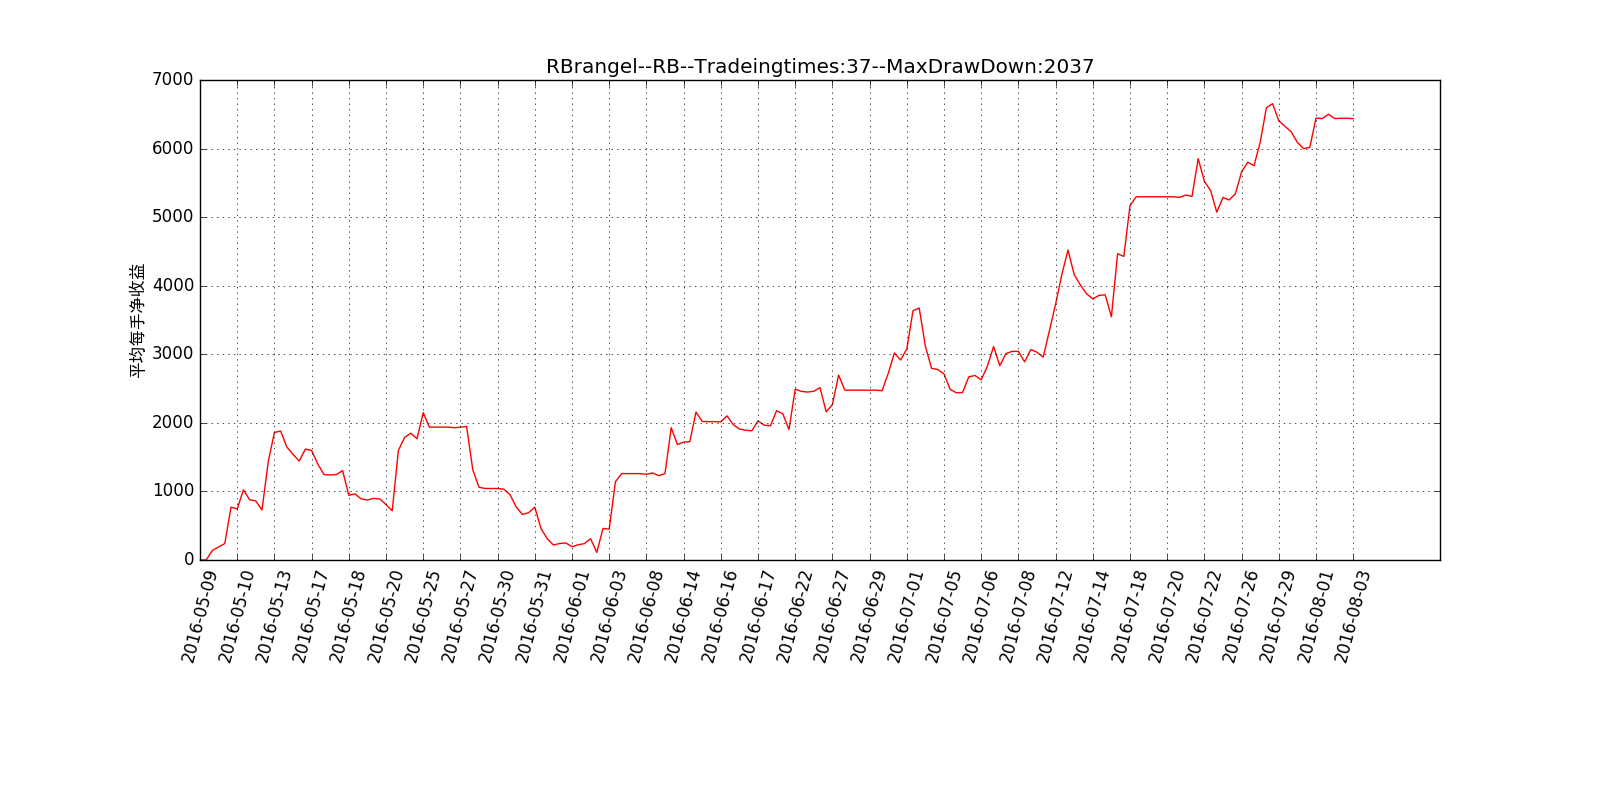
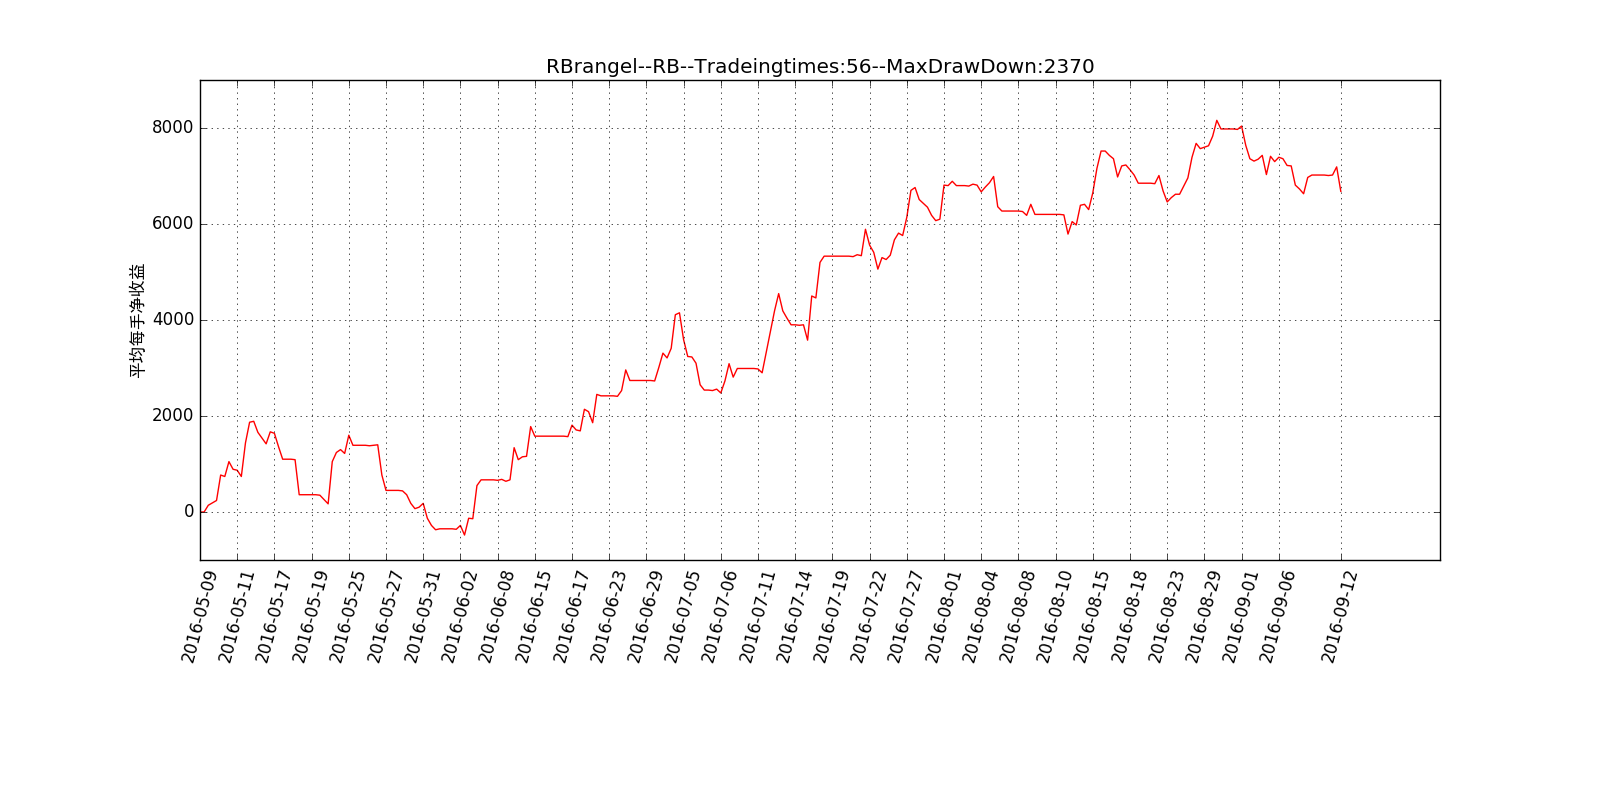
1

diff --git a/pythonfile/new_cal_quayi_归一化测试.py b/pythonfile/new_cal_quayi_归一化测试.py
@@ -10,7 +10,7 @@ import matplotlib.pyplot as plt
 import matplotlib.pylab as pl
 from matplotlib.dates import DayLocator, HourLocator, DateFormatter, drange
 ms = MSSQL(host="192.168.0.5",user="future",pwd="K@ra0Key",db="future")
-# resList = ms.find_sql("select top 2 * from st_report_test")
+# resList = ms.find_sql("select top 2 * from st_report")
 # print resList
 # 返回行情list 或者0
 
@@ -38,8 +38,8 @@ def input_groupbyquanyi(ac,symbol):
 	res=ms.dict_sql(sql)
 	totalsum=res[0]['totalsum']
 
-	#产生临时整个虚拟组st_report_test
-	sql="select * into  #temp_quanyi_new from ( select p.ac,p.symbol,st_report_test.type,st_report_test.id,st_report_test.p,st_report_test.pp,p.p_size,p.ratio ,st_report_test.st,st_report_test.stockdate from st_report_test  inner join #temp_p_log p on p.st=st_report_test.st and p.ac='%s' and p.symbol='%s')temp " % (ac,symbol)
+	#产生临时整个虚拟组st_report
+	sql="select * into  #temp_quanyi_new from ( select p.ac,p.symbol,st_report.type,st_report.id,st_report.p,st_report.pp,p.p_size,p.ratio ,st_report.st,st_report.stockdate from st_report  inner join #temp_p_log p on p.st=st_report.st and p.ac='%s' and p.symbol='%s')temp " % (ac,symbol)
 	#print sql
 	ms.insert_sql(sql)
 	#print 1,datetime.datetime.now()
@@ -426,14 +426,33 @@ def show_all_ac(acname=''):
 
 
 
+def regular_to_num(myquotes,upline,downline):
+	newmyquotes=[]
+	tempposition=0
+	for item in myquotes:
+		if item[2]>=upline:
+			tempposition=1
+		if item[2]<=downline:
+			tempposition=-1
+		newmyquotes.append([item[0],item[1],tempposition])
+	return newmyquotes
+
+def multiple_ratio(myquotes,ratio):
+	newmyquotes=[]
+	tempposition=0
+	for item in myquotes:
+		newmyquotes.append([item[0],item[1],item[2]*ratio])
+	return newmyquotes
+
 # show_all_ac('RU3v4e')
 
 
-(myquotes,totalsum)=input_groupbyquanyi('RB3choosel','rb')
+(myquotes,totalsum)=input_groupbyquanyi('yyrb','RB')
 #仓位信息OK
 print totalsum
+myquotes=multiple_ratio(myquotes,0.1)
 # for item in myquotes:
 # 	print item 
-cal_quanyi('RB3choosel',myquotes,10,'rb')
+cal_quanyi('yyrb',myquotes,1,'RB')
 
 # show_account('myaccount2')

diff --git a/pythonfile/new_cal_quayi_实盘仓位.py b/pythonfile/new_cal_quayi_实盘仓位.py
@@ -10,7 +10,7 @@ import matplotlib.pyplot as plt
 import matplotlib.pylab as pl
 from matplotlib.dates import DayLocator, HourLocator, DateFormatter, drange
 ms = MSSQL(host="192.168.0.5",user="future",pwd="K@ra0Key",db="future")
-# resList = ms.find_sql("select top 2 * from st_report")
+# resList = ms.find_sql("select top 2 * from real_st_report")
 # print resList
 # 返回行情list 或者0
 
@@ -38,8 +38,8 @@ def input_groupbyquanyi(ac,symbol):
 	res=ms.dict_sql(sql)
 	totalsum=res[0]['totalsum']
 
-	#产生临时整个虚拟组st_report
-	sql="select * into  #temp_quanyi_new from ( select p.ac,p.symbol,st_report.type,st_report.id,st_report.p,st_report.pp,p.p_size,p.ratio ,st_report.st,st_report.stockdate from st_report  inner join #temp_p_log p on p.st=st_report.st and p.ac='%s' and p.symbol='%s')temp " % (ac,symbol)
+	#产生临时整个虚拟组real_st_report
+	sql="select * into  #temp_quanyi_new from ( select p.ac,p.symbol,real_st_report.type,real_st_report.id,real_st_report.p,real_st_report.pp,p.p_size,p.ratio ,real_st_report.st,real_st_report.stockdate from real_st_report  inner join #temp_p_log p on p.st=real_st_report.st and p.ac='%s' and p.symbol='%s')temp " % (ac,symbol)
 	#print sql
 	ms.insert_sql(sql)
 	#print 1,datetime.datetime.now()
@@ -443,7 +443,7 @@ print totalsum
 for item in myquotes:
 	print item 
 ratio=1
-myquotes=multiple_ratio(myquotes,ratio)
+# myquotes=multiple_ratio(myquotes,ratio)
 cal_quanyi('RBQGYP_TG',myquotes,ratio*totalsum,'rbnight')
 
 # show_account('myaccount2')

diff --git a/pythonfile/new_cal_quayi_V2.py b/pythonfile/new_cal_quayi_V2.py
@@ -636,4 +636,4 @@ def main_fun():
 		cal_quanyi(item['acname'],myquotes,totalsum,quanyisymbol)
 
 main_fun_sumps()
-# main_fun()
+main_fun()
